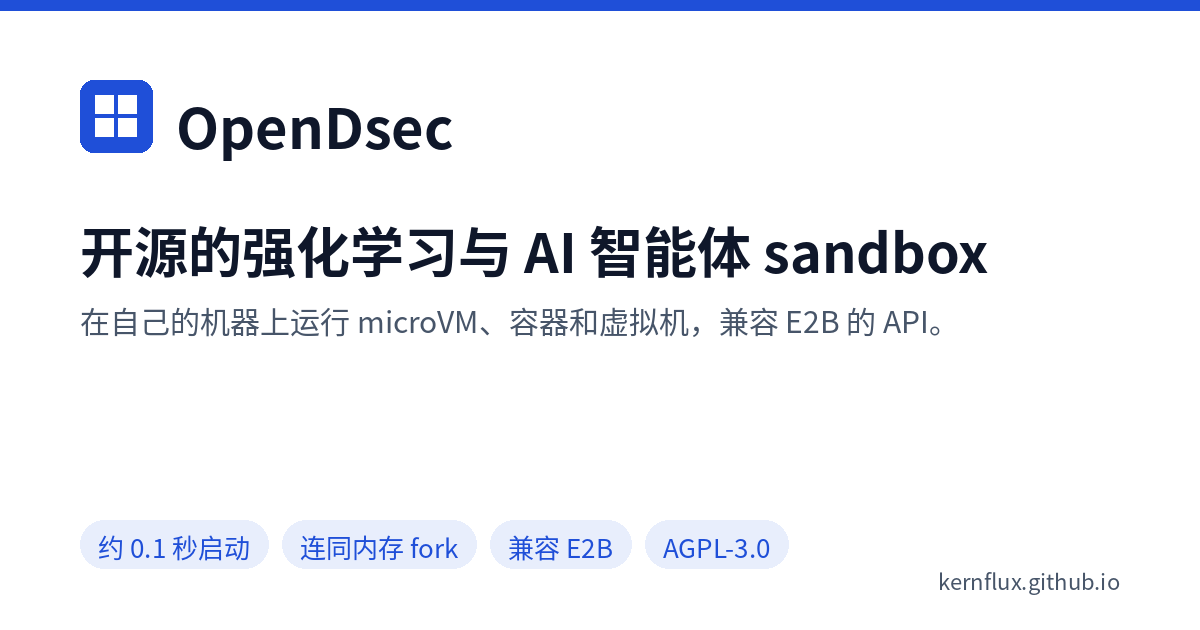
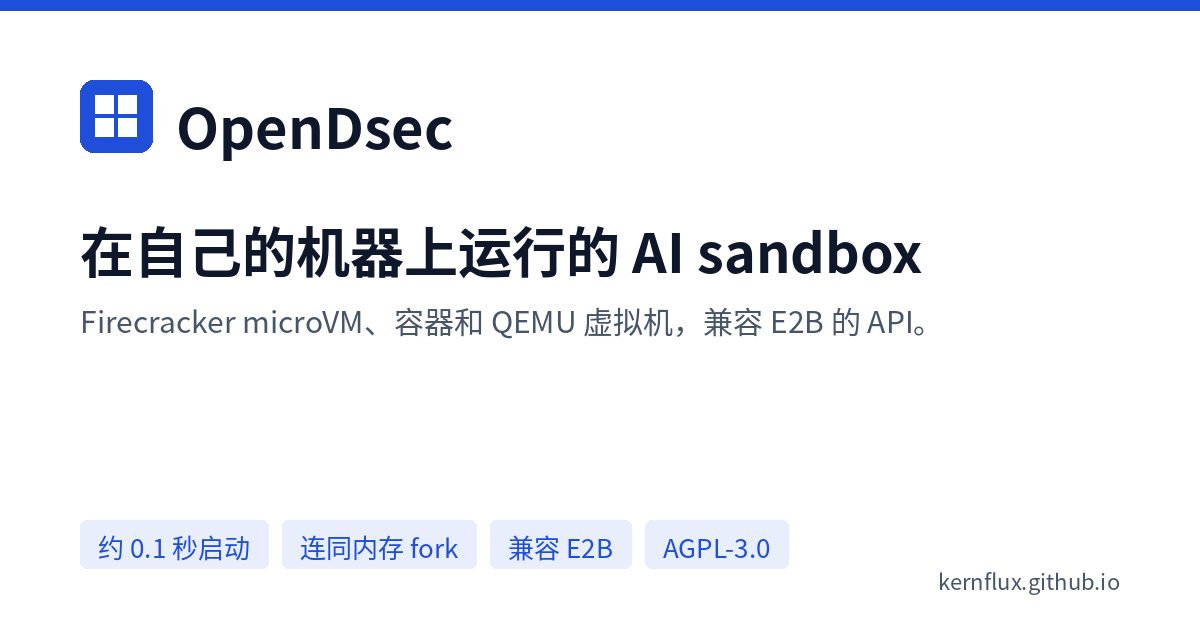
Home page: self-hosted AI sandboxes as the headline, and a plainer design
The hero shows the three E2B variables instead of a window mock-up; no
gradient title, features as ruled columns, square buttons; OG cards follow.

Changed region(s): [[0.0617, 0.3619, 0.8325, 0.4524], [0.0617, 0.4825, 0.7708, 0.5429]]

diff --git a/.vitepress/theme/HeroCode.vue b/.vitepress/theme/HeroCode.vue
@@ -1,0 +1,46 @@
+<script setup lang="ts">
+import { computed } from 'vue'
+import { useData } from 'vitepress'
+
+// Moving E2B code over: three environment variables, nothing else
+// (docs/E2B.md); times are the measured ones on the home page.
+const { lang } = useData()
+const zh = computed(() => lang.value.startsWith('zh'))
+</script>
+
+<template>
+  <figure class="hero-code">
+    <figcaption>{{ zh ? '已有的 E2B 代码，只换三个环境变量' : 'Existing E2B code; only three variables change' }}</figcaption>
+<pre><code><span class="c">$</span> export E2B_API_URL=https://sandbox.internal:7400
+<span class="c">$</span> export E2B_SANDBOX_URL=https://sandbox.internal:7400
+<span class="c">$</span> export E2B_API_KEY=dsk.…
+
+<span class="k">from</span> e2b_code_interpreter <span class="k">import</span> Sandbox
+
+sbx = Sandbox.create(<span class="s">"code-interpreter-v1"</span>)  <span class="c"># 280 ms</span>
+sbx.run_code(<span class="s">"6 * 7"</span>).text                   <span class="c"># 42, 45 ms</span></code></pre>
+  </figure>
+</template>
+
+<style scoped>
+.hero-code {
+  width: 100%;
+  max-width: 520px;
+  margin: 0;
+  border: 1px solid var(--vp-c-divider);
+  border-radius: 6px;
+  background: var(--vp-c-bg-alt);
+  overflow: hidden;
+}
+figcaption {
+  padding: 8px 14px;
+  border-bottom: 1px solid var(--vp-c-divider);
+  color: var(--vp-c-text-2);
+  font-size: 13px;
+}
+pre { margin: 0; padding: 14px; overflow-x: auto; }
+code { font-family: var(--vp-font-family-mono); font-size: 12.5px; line-height: 1.7; color: var(--vp-c-text-1); }
+.c { color: var(--vp-c-text-3); }
+.k { color: var(--vp-c-brand-1); }
+.s { color: var(--vp-c-text-2); }
+</style>

diff --git a/.vitepress/theme/custom.css b/.vitepress/theme/custom.css
@@ -4,15 +4,13 @@
   --vp-c-brand-2: #3463e6;
   --vp-c-brand-3: #1f4fd8;
   --vp-c-brand-soft: rgba(31, 79, 216, 0.12);
-  --vp-home-hero-name-color: transparent;
-  --vp-home-hero-name-background: linear-gradient(120deg, #1f4fd8 20%, #0e9fb8);
+  --vp-home-hero-name-color: var(--vp-c-text-2);
 }
 .dark {
   --vp-c-brand-1: #8aa8ff;
   --vp-c-brand-2: #6e92ff;
   --vp-c-brand-3: #3463e6;
   --vp-c-brand-soft: rgba(126, 162, 255, 0.16);
-  --vp-home-hero-name-background: linear-gradient(120deg, #8aa8ff 20%, #4fd1e6);
 }
 
 /* Measured-numbers table and architecture diagram on the home page */
@@ -34,5 +32,15 @@
 .swipe { display: none; font-size: 13px; color: var(--vp-c-text-2); }
 @media (max-width: 720px) { .swipe { display: block; } }
 
-/* the hero card is a desktop extra; phones go straight to the text */
+/* Plain home page: the product name is a small label over the headline,
+   square-ish buttons, and features as ruled columns rather than cards. */
+.VPHero .name { font-size: 20px !important; line-height: 28px !important; font-weight: 600; letter-spacing: 0; margin-bottom: 12px; }
+.VPHero .text { letter-spacing: -0.01em; }
+.VPHero .tagline { font-size: 18px !important; line-height: 30px !important; max-width: 560px; }
+.VPHome .VPButton { border-radius: 6px !important; }
+.VPFeature { background: transparent !important; border: 0 !important; border-top: 1px solid var(--vp-c-divider) !important; border-radius: 0 !important; }
+.VPFeature .box { padding: 16px 0 0 !important; }
+.VPFeature .title { font-size: 15px; }
+
+/* the hero code is a desktop extra; phones go straight to the text */
 @media (max-width: 959px) { .VPHero .image { display: none; } }

diff --git a/.vitepress/theme/index.ts b/.vitepress/theme/index.ts
@@ -1,7 +1,7 @@
 import { h } from 'vue'
 import DefaultTheme from 'vitepress/theme'
 import type { Theme } from 'vitepress'
-import HeroTrace from './HeroTrace.vue'
+import HeroCode from './HeroCode.vue'
 import BlogIndex from './BlogIndex.vue'
 import PostMeta from './PostMeta.vue'
 import './custom.css'
@@ -9,7 +9,7 @@ import './custom.css'
 export default {
   extends: DefaultTheme,
   Layout: () => h(DefaultTheme.Layout, null, {
-    'home-hero-image': () => h(HeroTrace),
+    'home-hero-image': () => h(HeroCode),
     'doc-before': () => h(PostMeta),
   }),
   enhanceApp({ app }) {

diff --git a/scripts/og-card.py b/scripts/og-card.py
@@ -58,7 +58,7 @@ def card(out, headline, sub, chips):
     x, f = 80, font("Regular", 26)
     for c in chips:
         w = d.textlength(c, font=f) + 36
-        d.rounded_rectangle([x, 520, x + w, 568], radius=24, fill="#e8eefc")
+        d.rounded_rectangle([x, 520, x + w, 568], radius=6, fill="#e8eefc")
         d.text((x + 18, 527), c, font=f, fill=BRAND)
         x += w + 14
     d.text((W - 80, 590), "kernflux.github.io", font=font("Regular", 22), fill=MUTED, anchor="rs")
@@ -66,10 +66,10 @@ def card(out, headline, sub, chips):
 
 
 card("public/og.png",
-     "Open-source sandboxes for RL rollouts and AI agents",
-     "Firecracker microVMs, containers and QEMU VMs on your own machines, with an E2B-compatible API.",
+     "Self-hosted AI sandboxes",
+     "Firecracker microVMs, containers and QEMU VMs, with an E2B-compatible API.",
      ["~0.1 s microVMs", "fork with memory", "E2B-compatible", "AGPL-3.0"])
 card("public/og-zh.png",
-     "开源的强化学习与 AI 智能体 sandbox",
-     "在自己的机器上运行 microVM、容器和虚拟机，兼容 E2B 的 API。",
+     "在自己的机器上运行的 AI sandbox",
+     "Firecracker microVM、容器和 QEMU 虚拟机，兼容 E2B 的 API。",
      ["约 0.1 秒启动", "连同内存 fork", "兼容 E2B", "AGPL-3.0"])

diff --git a/en/index.md b/en/index.md
@@ -6,8 +6,8 @@ description: Open-source sandboxes on your own machines for RL rollouts and code
 
 hero:
   name: OpenDsec
-  text: An isolated sandbox for every rollout
-  tagline: Run large fleets of Firecracker microVMs, containers and QEMU VMs on your own machines, for reinforcement-learning rollouts and code-executing agents. Implements DeepSeek's DSec paper and speaks the E2B API.
+  text: Self-hosted AI sandboxes
+  tagline: "E2B-compatible: change three environment variables and your code runs on your own cluster. Firecracker microVMs start in about 0.1 s and fork with their memory. Built from DeepSeek's DSec paper, for RL rollouts and code-executing agents."
   actions:
     - theme: brand
       text: Get started
